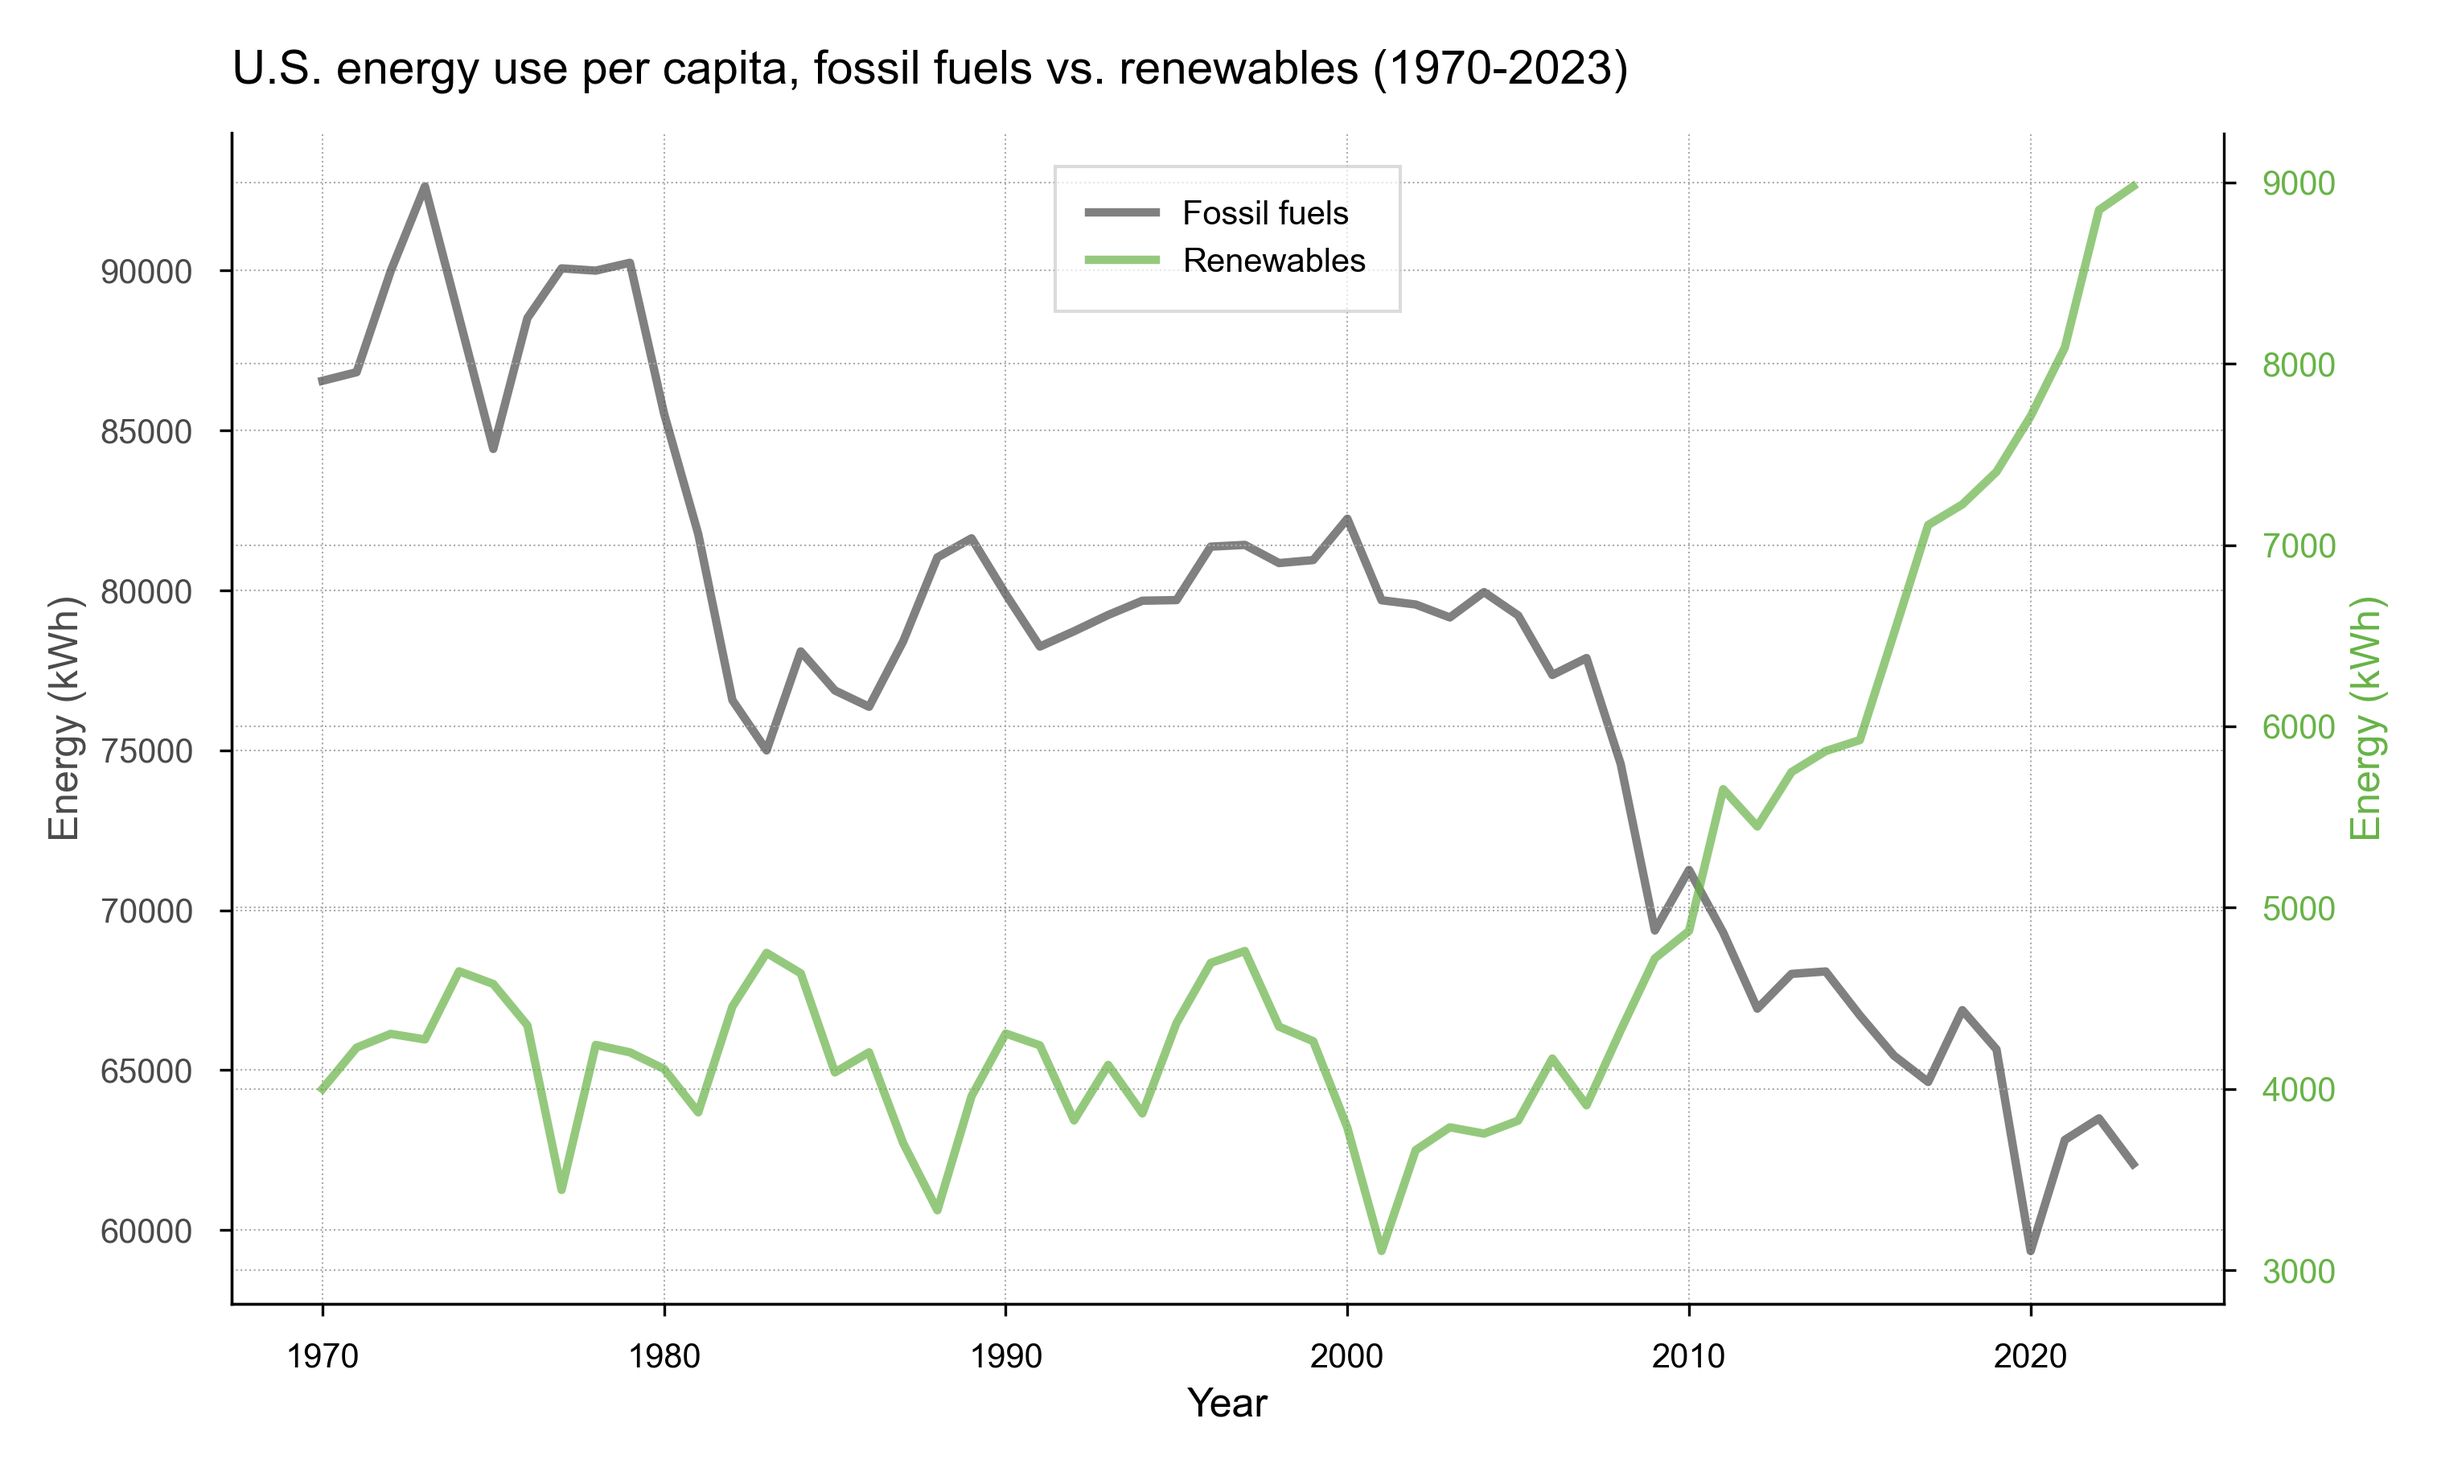
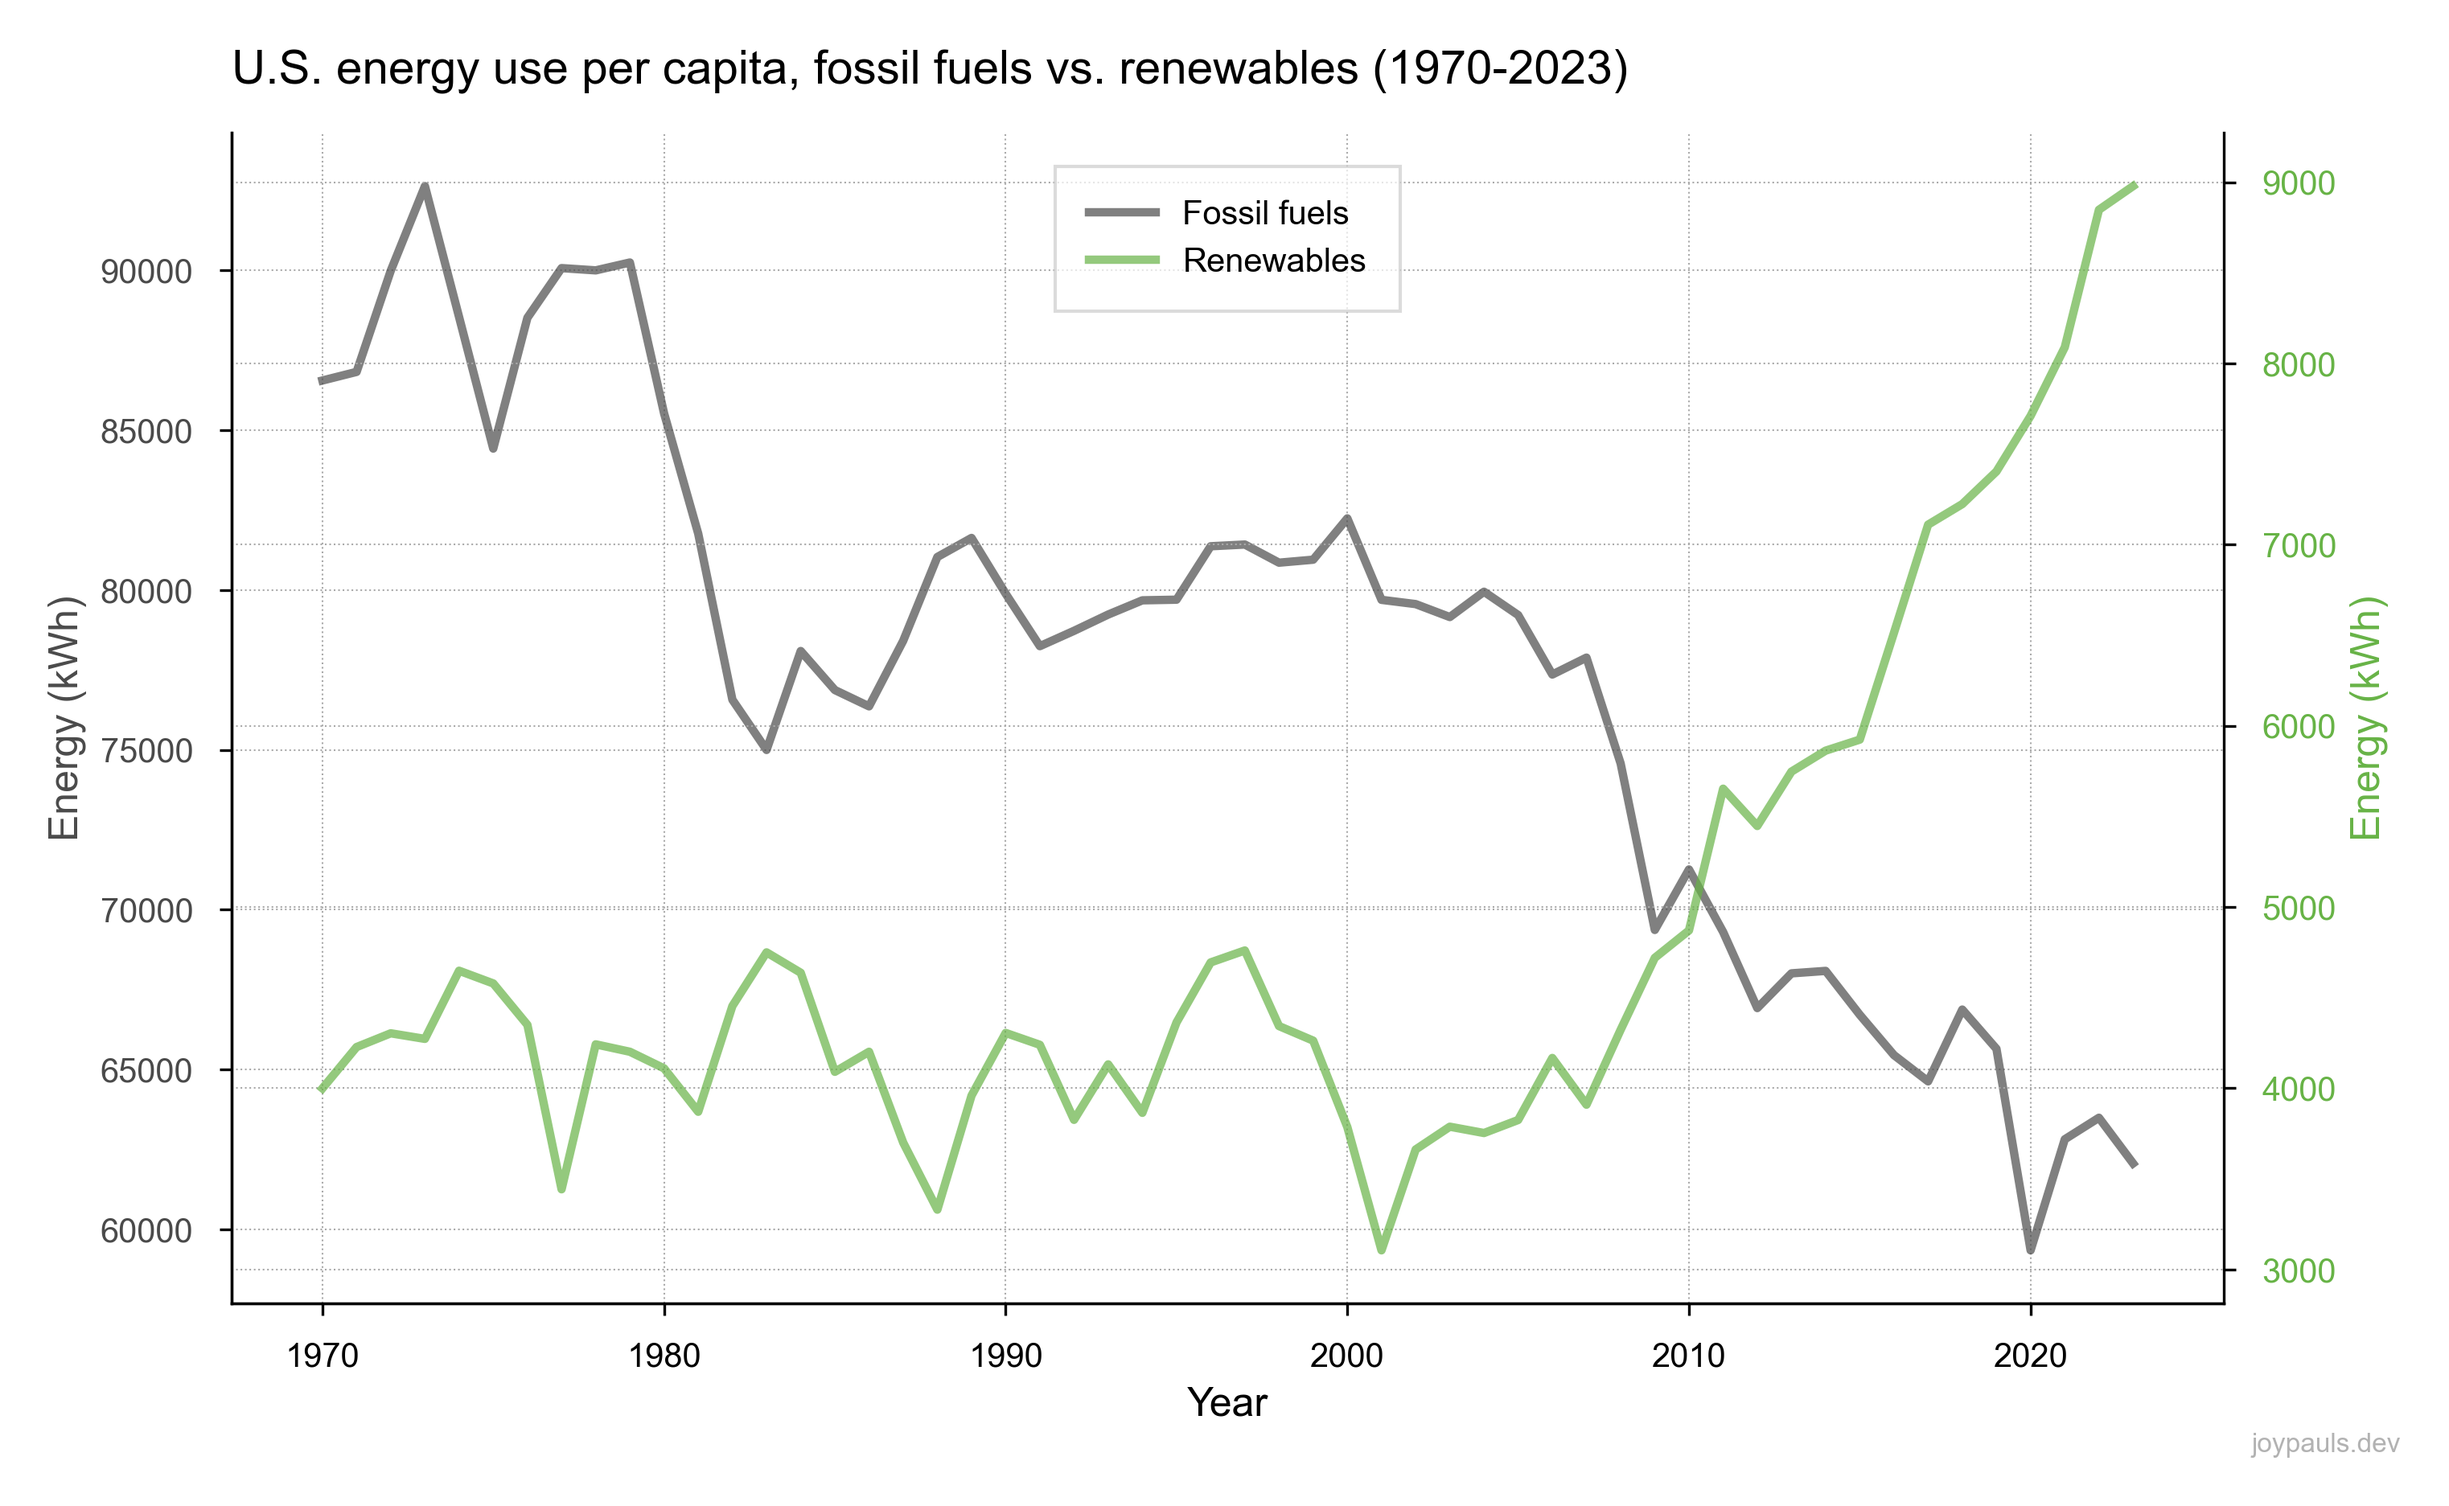
update images with watermark

diff --git a/src/content/blog/caiso-electricity-demand.md b/src/content/blog/caiso-electricity-demand.md
@@ -1,0 +1,36 @@
+---
+author: Joy Paulsen
+pubDatetime: 2025-07-06T19:00:00Z
+title: Electricity Demand Patterns with CAISO
+slug: caiso-electricity-demand
+featured: true
+draft: true
+tags:
+  - data
+  - analysis
+description:
+  An openly available and informative dataset useful for learning and experimentation
+---
+
+
+
+
+## Positioning
+
+A case study in large-scale load dynamics
+
+
+## Exogenous Variables
+
+show heat wave 2022
+
+---
+
+#
+
+
+
+
+---
+
+![something](@assets/blog/energy-use-in-us/energy_use.png)

diff --git a/src/content/blog/mn-ces.md b/src/content/blog/mn-ces.md
@@ -51,8 +51,6 @@ Luckily, [Minnesota](https://www.eia.gov/state/?sid=MN) is not starting from squ
 
 ![MN Electricity Generation Mix](@assets/blog/mn-ces/mn_mix.png)
 
-## Work to Do
-
 Minnesota’s CES sets a bold target and puts the state in the company of climate leaders like California and New York. But as with any big climate law, it's all about implementation. 2030 is just around the corner. What happens next will depend on strong policy follow-through, local innovation, and continued public support.
 
 

diff --git a/src/content/blog/budget-bill-2025.md b/src/content/blog/budget-bill-2025.md
@@ -1,0 +1,27 @@
+---
+author: Joy Paulsen
+pubDatetime: 2025-07-07T19:00:00Z
+title: A No Good, Very Bad Bill
+slug: budget-bill-2025
+featured: true
+draft: true
+tags:
+  - policy
+description:
+  An openly available and informative dataset useful for learning and experimentation
+---
+
+Last week the U.S. 
+
+## Positioning
+
+A case study in large-scale load dynamics
+
+
+## Exogenous Variables
+
+show heat wave 2022
+
+---
+
+![something](@assets/blog/energy-use-in-us/energy_use.png)

diff --git a/src/content/blog/dispatchable-sun.md b/src/content/blog/dispatchable-sun.md
@@ -1,0 +1,17 @@
+---
+author: Joy Paulsen
+pubDatetime: 2025-07-06T19:00:00Z
+title: The Dispatchable Sun
+slug: dispatchable-sun
+featured: true
+draft: true
+tags:
+  - renewables
+  - tech
+description:
+  An openly available and informative dataset useful for learning and experimentation
+---
+
+solar + storage
+
+first heard the term in course taught by Stefan Reichelstein
